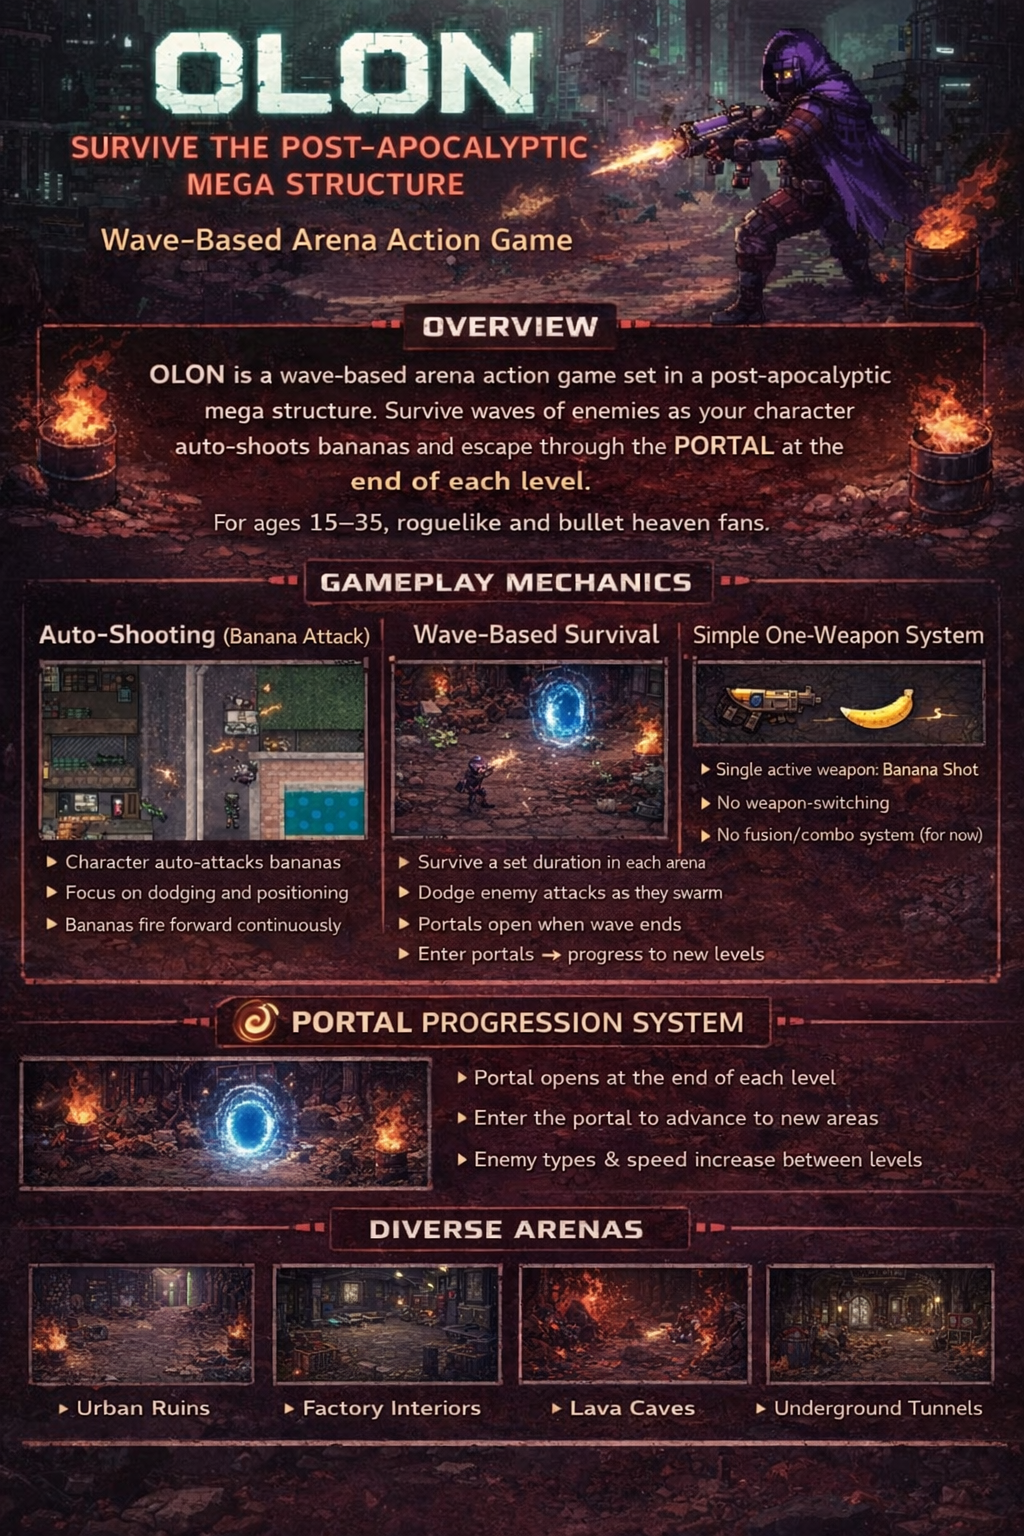
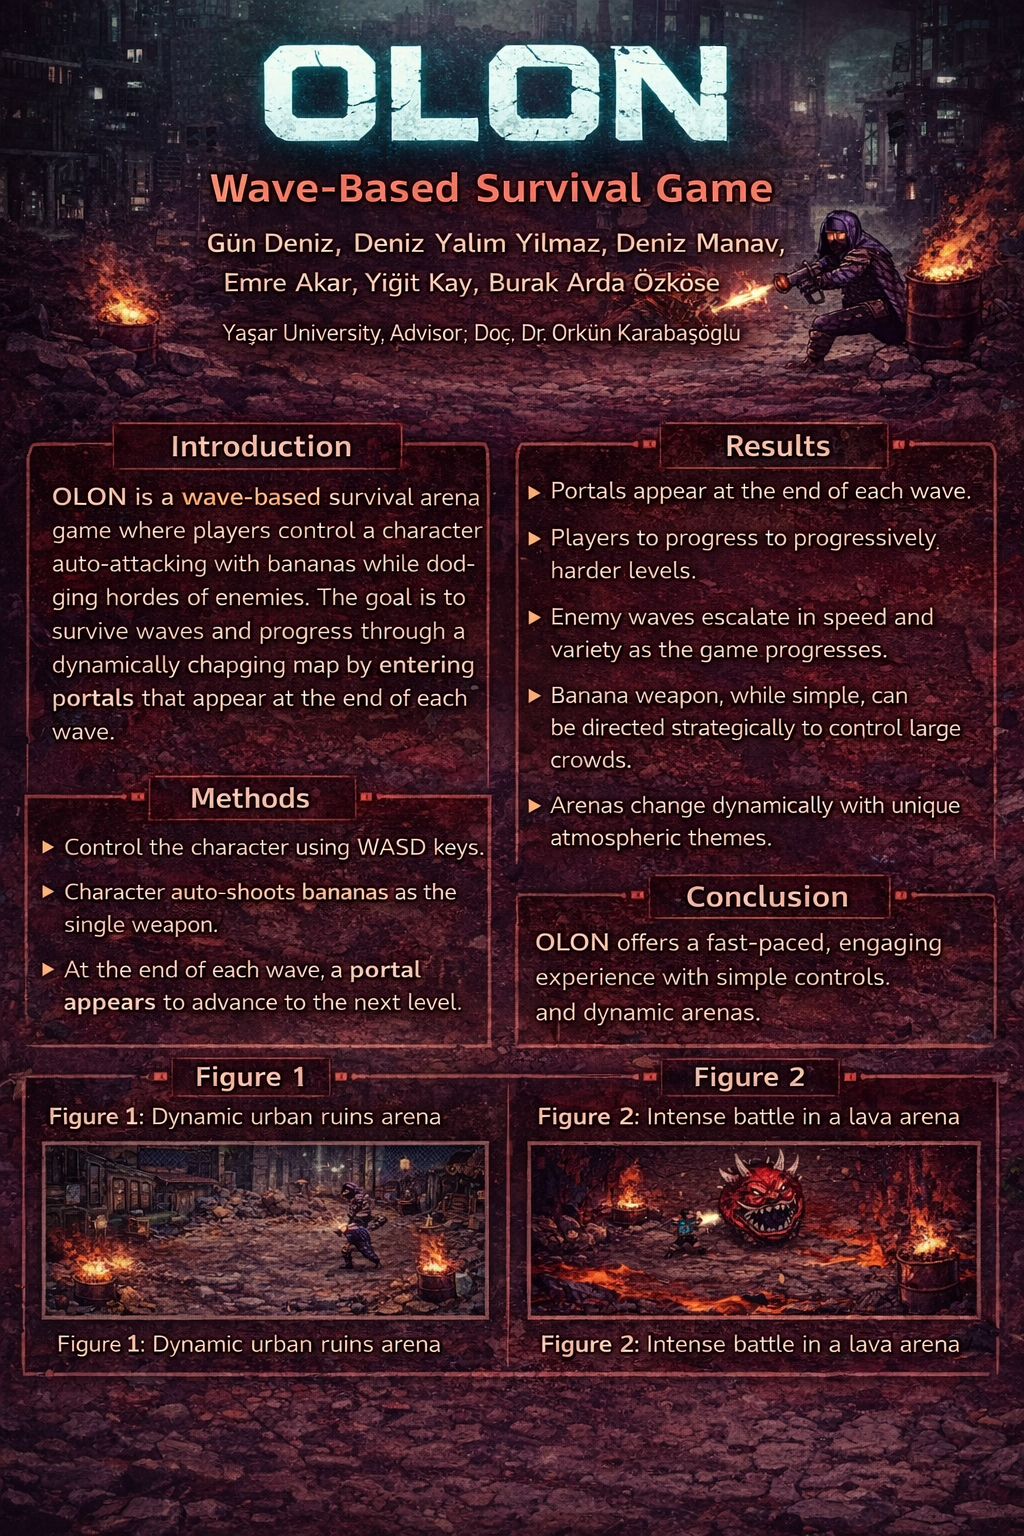
Update: Use poster image in hero section

diff --git a/index.html b/index.html
@@ -37,7 +37,7 @@
     <!-- Hero Section - Full Screen -->
     <section class="hero">
         <div class="hero-background">
-            <img src="images/0456314a-a6fc-44a2-84e9-30d2365bafdc.png" alt="OL0N Game" class="hero-image">
+            <img src="images/content.png" alt="OL0N Game Poster" class="hero-image">
             <div class="hero-overlay"></div>
         </div>
         <div class="hero-content">
